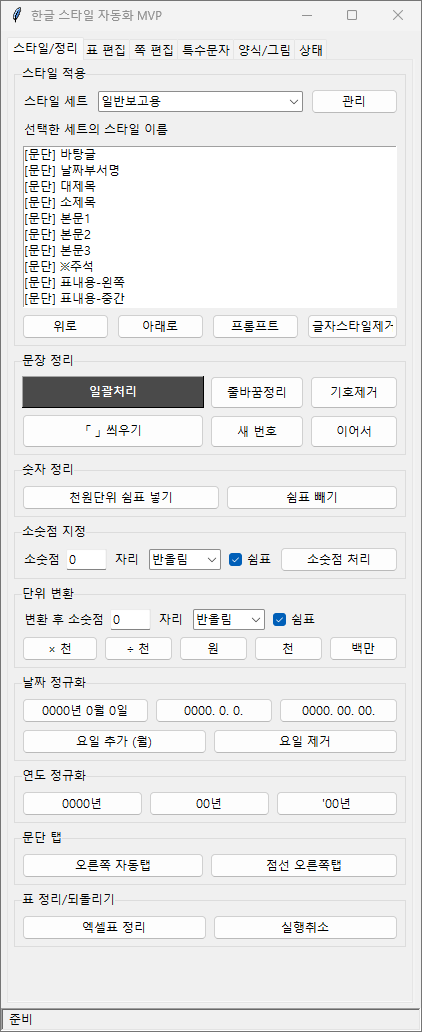
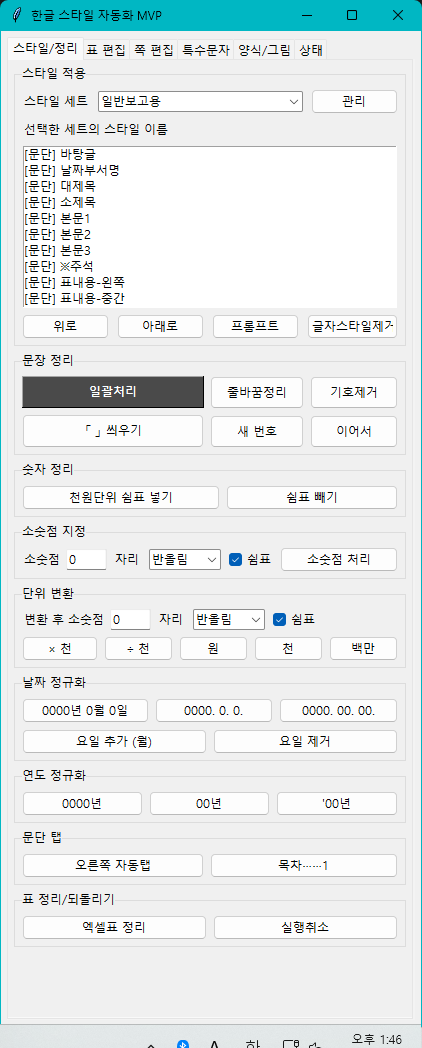
UI 수정반영

diff --git a/bufs/hwp_style_mvp.py b/bufs/hwp_style_mvp.py
@@ -4414,7 +4414,7 @@ class MvpApp(tk.Tk):
         ).grid(row=0, column=0, sticky="ew", padx=(0, 6))
         ttk.Button(
             tab_group,
-            text="목차 점선",
+            text="목차⋯⋯1",
             command=self.apply_dotted_right_paragraph_tab,
         ).grid(row=0, column=1, sticky="ew")
 
@@ -10034,12 +10034,12 @@ class MvpApp(tk.Tk):
         try:
             self.activate_hwp_window()
             action, ok, tab_position, source = self.set_paragraph_dotted_right_tab()
-            self.log(f"목차 점선: 기준={source}, 위치={tab_position}, action={action}, result={ok}")
+            self.log(f"목차⋯⋯1: 기준={source}, 위치={tab_position}, action={action}, result={ok}")
             if not ok:
-                messagebox.showwarning("목차 점선", "현재 문단 또는 선택 영역에 문단 탭 설정을 적용하지 못했습니다.")
+                messagebox.showwarning("목차⋯⋯1", "현재 문단 또는 선택 영역에 문단 탭 설정을 적용하지 못했습니다.")
         except Exception as exc:
-            self.log(f"목차 점선 실패: {type(exc).__name__}: {exc}")
-            messagebox.showerror("목차 점선 실패", str(exc))
+            self.log(f"목차⋯⋯1 실패: {type(exc).__name__}: {exc}")
+            messagebox.showerror("목차⋯⋯1 실패", str(exc))
 
     def execute_put_new_para_number(self) -> tuple[bool, bool]:
         pset = self.hwp.HParameterSet.HParaShape

diff --git a/user_manual/04/04-02.md b/user_manual/04/04-02.md
@@ -16,7 +16,7 @@
 | `위로`, `아래로` | 스타일 목록에서 선택한 스타일의 표시 순서를 바꿉니다. 자주 쓰는 스타일을 위쪽에 모아 둘 때 사용합니다. |
 | 문단 탭 | 문단 오른쪽 끝에 맞춰 넣을 문구나 목차 점선을 만들 때 사용합니다. |
 | `오른쪽 자동탭` | 표 제목 오른쪽에 `(단위: 천원)` 같은 단위 표기를 붙이거나, 제목 줄 오른쪽에 `별첨자료`, `증빙자료` 같은 표시를 붙일 때 사용합니다. |
-| `목차 점선` | 목차처럼 왼쪽 제목과 오른쪽 쪽 번호 사이를 점선으로 연결할 때 사용합니다. 예를 들어 `목차⋯⋯1` 같은 모양을 만들 때 씁니다. |
+| `목차⋯⋯1` | 목차처럼 왼쪽 제목과 오른쪽 쪽 번호 사이를 점선으로 연결할 때 사용합니다. |
 | `일괄처리` | 식별자와 규칙을 보고 선택한 문단을 한 번에 정리합니다. |
 | `줄바꿈정리` | 복사해 온 글의 불필요한 줄바꿈을 줄입니다. |
 | `「 」 씌우기` | 선택한 규정명이나 문서명을 낫표 괄호로 감쌉니다. |
